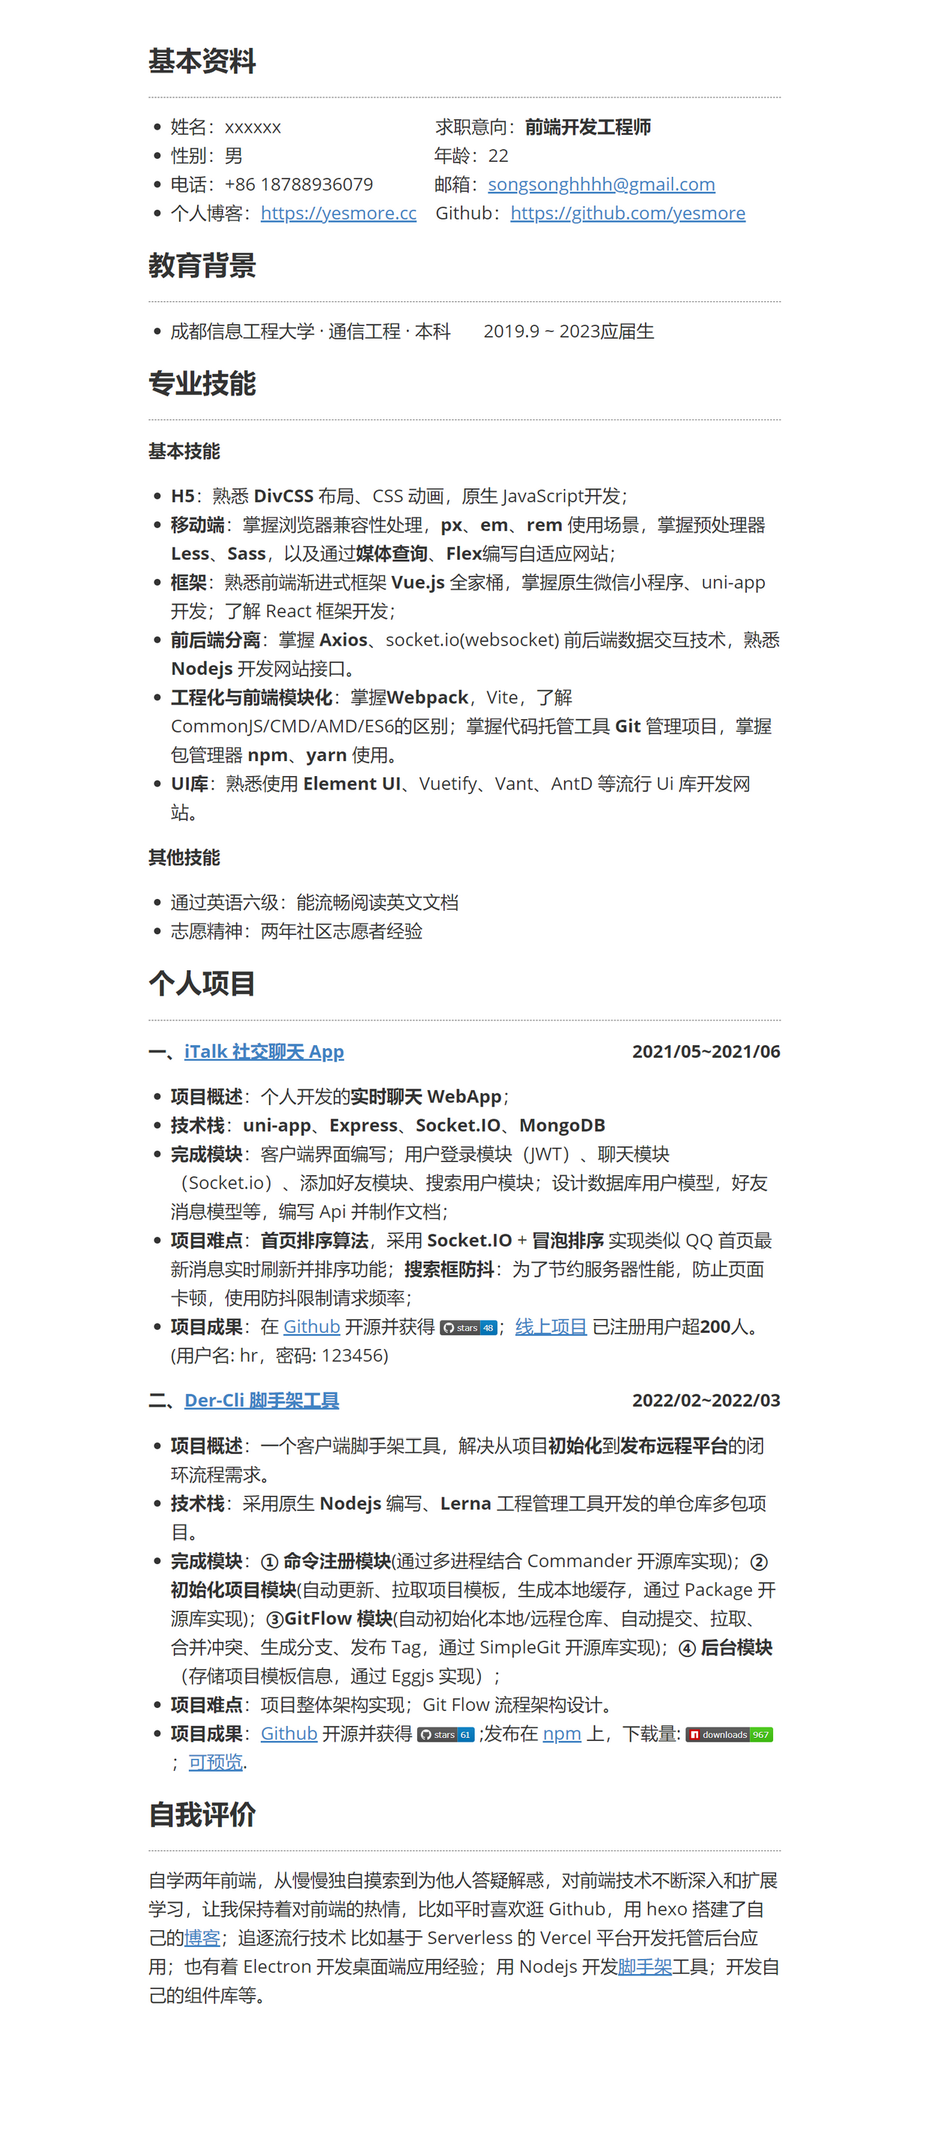
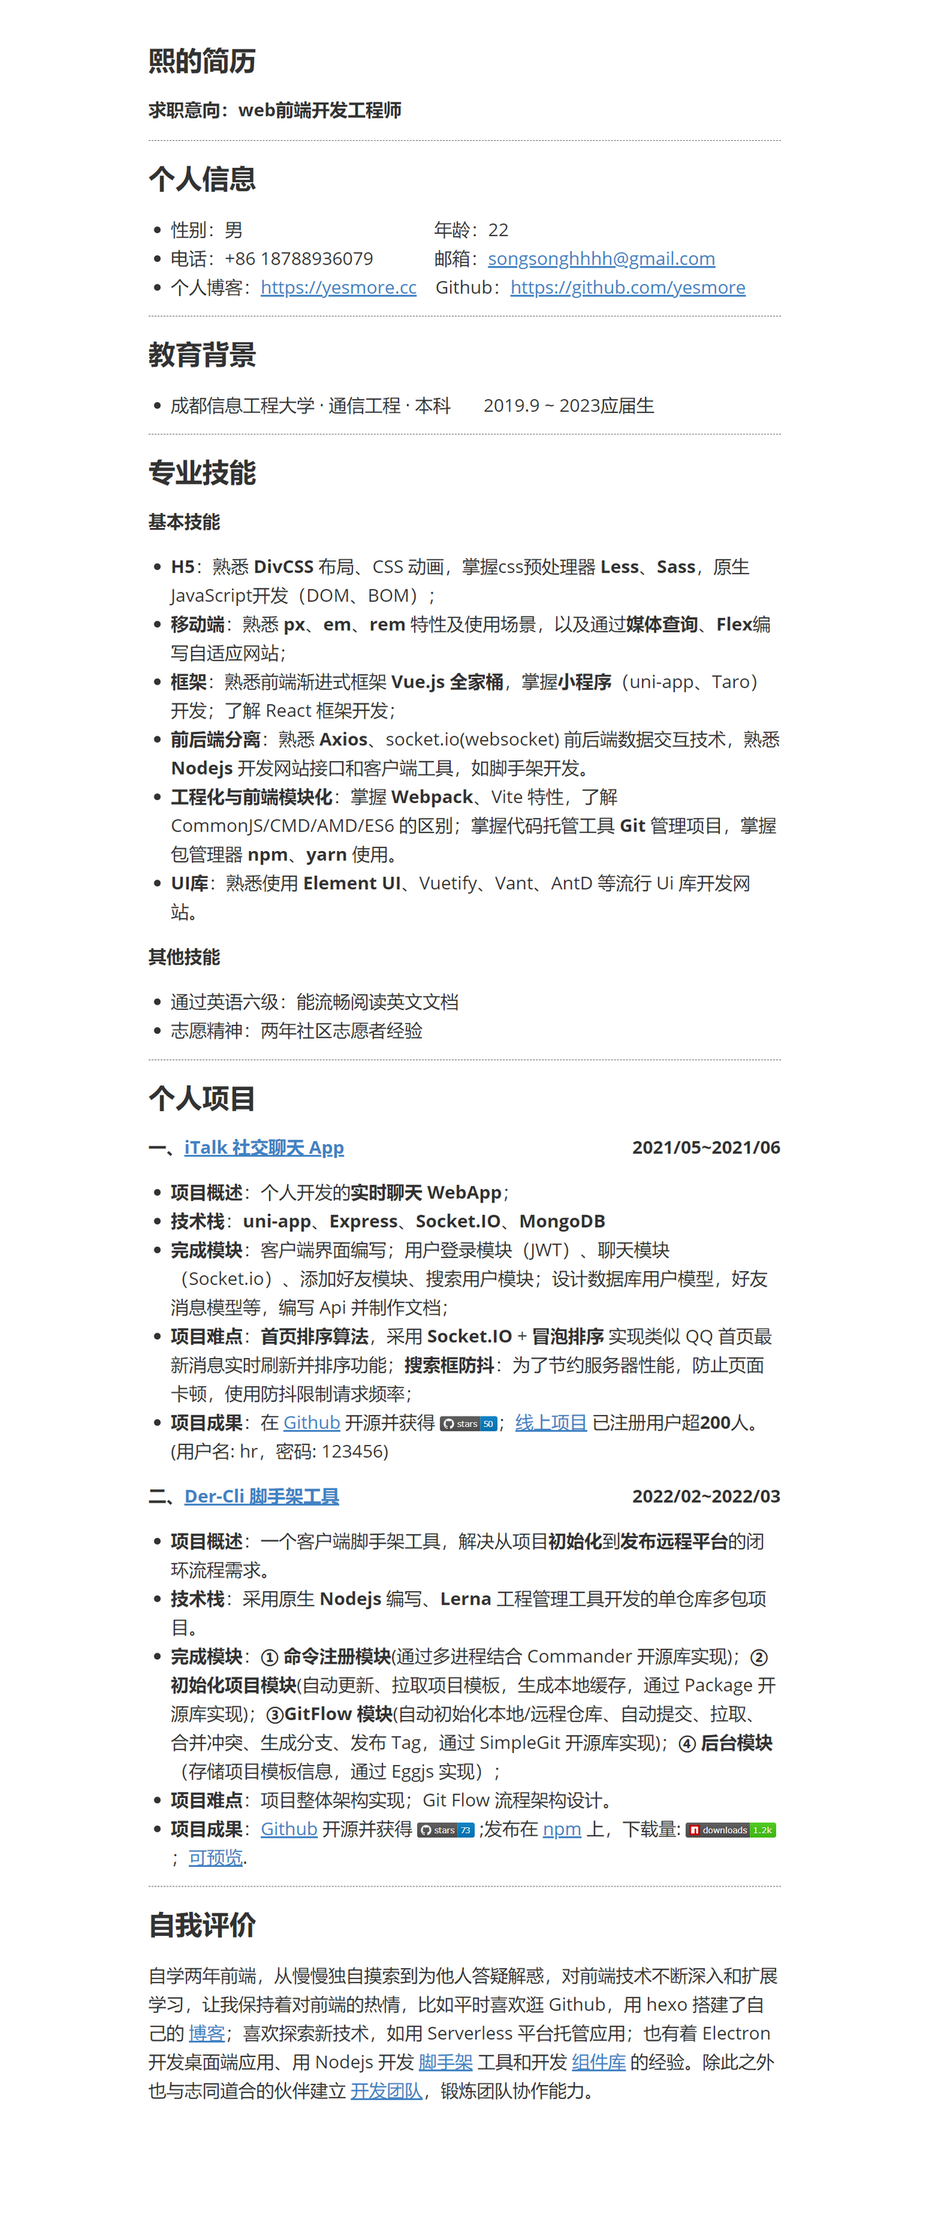
docs: new

Changed region(s): [[0.1532, 0.0, 0.8274, 0.9654]]

diff --git a/index.html b/index.html
@@ -593,6 +593,6 @@ header, .context-menu, .megamenu-content, footer{
 </style><title>index</title>
 </head>
 <body class='typora-export os-windows'><div class='typora-export-content'>
-<div id='write'  class=''><h3 id='基本资料'><span>基本资料</span></h3><div style="border-bottom: 1px dashed #666666"></div><ul><li><span>姓名：xxxxxx                                 求职意向：</span><strong><span>前端开发工程师</span></strong></li><li><span>性别：男                                         年龄：22</span></li><li><span>电话：+86 18788936079             邮箱：</span><a href='mailto:songsonghhhh@gmail.com' target='_blank' class='url'>songsonghhhh@gmail.com</a><span>  </span></li><li><span>个人博客：</span><a href='https://yesmore.cc' target='_blank' class='url'>https://yesmore.cc</a><span>    Github：</span><a href='https://github.com/yesmore' target='_blank' class='url'>https://github.com/yesmore</a></li></ul><h3 id='教育背景'><span>教育背景</span></h3><div style="border-bottom: 1px dashed #666666"></div><ul><li><span>成都信息工程大学 · 通信工程 · 本科       2019.9 ~ 2023应届生</span></li></ul><h3 id='专业技能'><span>专业技能</span></h3><div style="border-bottom: 1px dashed #666666"></div><h5 id='基本技能'><span>基本技能</span></h5><ul><li><strong><span>H5</span></strong><span>：熟悉 </span><strong><span>DivCSS</span></strong><span> 布局、CSS 动画，原生 JavaScript开发；</span></li><li><strong><span>移动端</span></strong><span>：掌握浏览器兼容性处理，</span><strong><span>px</span></strong><span>、</span><strong><span>em</span></strong><span>、</span><strong><span>rem</span></strong><span> 使用场景，掌握预处理器 </span><strong><span>Less</span></strong><span>、</span><strong><span>Sass</span></strong><span>，以及通过</span><strong><span>媒体查询</span></strong><span>、</span><strong><span>Flex</span></strong><span>编写自适应网站；</span></li><li><strong><span>框架</span></strong><span>：熟悉前端渐进式框架 </span><strong><span>Vue.js</span></strong><span> 全家桶，掌握原生微信小程序、uni-app 开发；了解 React 框架开发；</span></li><li><strong><span>前后端分离</span></strong><span>：掌握 </span><strong><span>Axios</span></strong><span>、socket.io(websocket) 前后端数据交互技术，熟悉 </span><strong><span>Nodejs</span></strong><span> 开发网站接口。</span></li><li><strong><span>工程化与前端模块化</span></strong><span>：掌握</span><strong><span>Webpack</span></strong><span>，Vite，了解CommonJS/CMD/AMD/ES6的区别；掌握代码托管工具 </span><strong><span>Git</span></strong><span> 管理项目，掌握包管理器 </span><strong><span>npm</span></strong><span>、</span><strong><span>yarn</span></strong><span> 使用。</span></li><li><strong><span>UI库</span></strong><span>：熟悉使用 </span><strong><span>Element UI</span></strong><span>、Vuetify、Vant、AntD 等流行 Ui 库开发网站。</span></li></ul><h5 id='其他技能'><span>其他技能</span></h5><ul><li><span>通过英语六级：能流畅阅读英文文档</span></li><li><span>志愿精神：两年社区志愿者经验</span></li></ul><h3 id='个人项目'><span>个人项目</span></h3><div style="border-bottom: 1px dashed #666666"></div><h5 id='一italk-社交聊天-app\n202105202106'><span>一、</span><a href='https://github.com/yesmore/italk-uniapp'><span>iTalk 社交聊天 App</span></a><span style='float:right'><span>2021/05~2021/06</span></span></h5><ul><li><strong><span>项目概述</span></strong><span>：个人开发的</span><strong><span>实时聊天 WebApp</span></strong><span>；</span></li><li><strong><span>技术栈</span></strong><span>：</span><strong><span>uni-app</span></strong><span>、</span><strong><span>Express</span></strong><span>、</span><strong><span>Socket.IO</span></strong><span>、</span><strong><span>MongoDB</span></strong></li><li><strong><span>完成模块</span></strong><span>：客户端界面编写；用户登录模块（JWT）、聊天模块（Socket.io）、添加好友模块、搜索用户模块；设计数据库用户模型，好友消息模型等，编写 Api 并制作文档；</span></li><li><strong><span>项目难点</span></strong><span>：</span><strong><span>首页排序算法</span></strong><span>，采用 </span><strong><span>Socket.IO</span></strong><span> + </span><strong><span>冒泡排序</span></strong><span> 实现类似 QQ 首页最新消息实时刷新并排序功能；</span><strong><span>搜索框防抖</span></strong><span>：为了节约服务器性能，防止页面卡顿，使用防抖限制请求频率；</span></li><li><strong><span>项目成果</span></strong><span>：在 </span><a href='https://github.com/yesmore/italk-uniapp'><span>Github</span></a><span> 开源并获得 </span><img src="https://img.shields.io/github/stars/yesmore/italk-uniapp.svg?logo=github" alt="star"/><span>；</span><a href='http://italk.aoau.top/'><span>线上项目</span></a><span> 已注册用户超</span><strong><span>200</span></strong><span>人。(用户名: hr，密码: 123456)</span></li></ul><h5 id='二der-cli-脚手架工具-\n202202202203'><span>二、</span><a href='https://der-cli.vercel.app/'><span>Der-Cli 脚手架工具</span></a><span> </span><span style='float:right'><span>2022/02~2022/03</span></span></h5><ul><li><strong><span>项目概述</span></strong><span>：一个客户端脚手架工具，解决从项目</span><strong><span>初始化</span></strong><span>到</span><strong><span>发布远程平台</span></strong><span>的闭环流程需求。</span></li><li><strong><span>技术栈</span></strong><span>：采用原生 </span><strong><span>Nodejs</span></strong><span> 编写、</span><strong><span>Lerna</span></strong><span> 工程管理工具开发的单仓库多包项目。</span></li><li><strong><span>完成模块</span></strong><span>：</span><strong><span>① 命令注册模块</span></strong><span>(通过多进程结合 Commander 开源库实现)；</span><strong><span>② 初始化项目模块</span></strong><span>(自动更新、拉取项目模板，生成本地缓存，通过 Package 开源库实现)；</span><strong><span>③GitFlow 模块</span></strong><span>(自动初始化本地/远程仓库、自动提交、拉取、合并冲突、生成分支、发布 Tag，通过 SimpleGit 开源库实现)；</span><strong><span>④ 后台模块</span></strong><span>（存储项目模板信息，通过 Eggjs 实现）；</span></li><li><strong><span>项目难点</span></strong><span>：项目整体架构实现；Git Flow 流程架构设计。</span></li><li><strong><span>项目成果</span></strong><span>：</span><a href='https://github.com/der-cli/der-cli'><span>Github</span></a><span> 开源并获得 </span><img src="https://img.shields.io/github/stars/der-cli/der-cli.svg?logo=github" alt="star"/><span> ;发布在 </span><a href='https://www.npmjs.com/package/@der-cli/core'><span>npm</span></a><span> 上，下载量: </span><img src="https://img.shields.io/npm/dt/@der-cli/core?logo=npm"><span>；</span><a href='https://der-cli.vercel.app/'><span>可预览</span></a><span>.</span></li></ul><h3 id='自我评价'><span>自我评价</span></h3><div style="border-bottom: 1px dashed #666666"></div><p><span>自学两年前端，从慢慢独自摸索到为他人答疑解惑，对前端技术不断深入和扩展学习，让我保持着对前端的热情，比如平时喜欢逛 Github，用 hexo 搭建了自己的</span><a href='https://yesmore.cc/'><span>博客</span></a><span>；追逐流行技术 比如基于 Serverless 的 Vercel 平台开发托管后台应用；也有着 Electron 开发桌面端应用经验；用 Nodejs 开发</span><a href='https://github.com/der-cli/der-cli'><span>脚手架</span></a><span>工具；开发自己的组件库等。</span></p><p>&nbsp;</p></div></div>
+<div id='write'  class=''><h3 id='熙的简历'><span>熙的简历</span></h3><h5 id='求职意向web前端开发工程师'><span> 求职意向：web前端开发工程师</span></h5><div style="border-bottom: 1px dashed #666666"></div><h3 id='个人信息'><span>个人信息</span></h3><ul><li><span>性别：男                                         年龄：22                                 </span></li><li><span>电话：+86 18788936079             邮箱：</span><a href='mailto:songsonghhhh@gmail.com' target='_blank' class='url'>songsonghhhh@gmail.com</a><span>  </span></li><li><span>个人博客：</span><a href='https://yesmore.cc' target='_blank' class='url'>https://yesmore.cc</a><span>    Github：</span><a href='https://github.com/yesmore' target='_blank' class='url'>https://github.com/yesmore</a></li></ul><div style="border-bottom: 1px dashed #666666"></div><h3 id='教育背景'><span>教育背景</span></h3><ul><li><span>成都信息工程大学 · 通信工程 · 本科       2019.9 ~ 2023应届生</span></li></ul><div style="border-bottom: 1px dashed #666666"></div><h3 id='专业技能'><span>专业技能</span></h3><h5 id='基本技能'><span>基本技能</span></h5><ul><li><strong><span>H5</span></strong><span>：熟悉 </span><strong><span>DivCSS</span></strong><span> 布局、CSS 动画，掌握css预处理器 </span><strong><span>Less</span></strong><span>、</span><strong><span>Sass</span></strong><span>，原生 JavaScript开发（DOM、BOM）；</span></li><li><strong><span>移动端</span></strong><span>：熟悉 </span><strong><span>px</span></strong><span>、</span><strong><span>em</span></strong><span>、</span><strong><span>rem</span></strong><span> 特性及使用场景，以及通过</span><strong><span>媒体查询</span></strong><span>、</span><strong><span>Flex</span></strong><span>编写自适应网站；</span></li><li><strong><span>框架</span></strong><span>：熟悉前端渐进式框架 </span><strong><span>Vue.js</span></strong><span> </span><strong><span>全家桶</span></strong><span>，掌握</span><strong><span>小程序</span></strong><span>（uni-app、Taro）开发；了解 React 框架开发；</span></li><li><strong><span>前后端分离</span></strong><span>：熟悉 </span><strong><span>Axios</span></strong><span>、socket.io(websocket) 前后端数据交互技术，熟悉 </span><strong><span>Nodejs</span></strong><span> 开发网站接口和客户端工具，如脚手架开发。</span></li><li><strong><span>工程化与前端模块化</span></strong><span>：掌握 </span><strong><span>Webpack</span></strong><span>、Vite 特性，了解 CommonJS/CMD/AMD/ES6 的区别；掌握代码托管工具 </span><strong><span>Git</span></strong><span> 管理项目，掌握包管理器 </span><strong><span>npm</span></strong><span>、</span><strong><span>yarn</span></strong><span> 使用。</span></li><li><strong><span>UI库</span></strong><span>：熟悉使用 </span><strong><span>Element UI</span></strong><span>、Vuetify、Vant、AntD 等流行 Ui 库开发网站。</span></li></ul><h5 id='其他技能'><span>其他技能</span></h5><ul><li><span>通过英语六级：能流畅阅读英文文档</span></li><li><span>志愿精神：两年社区志愿者经验</span></li></ul><div style="border-bottom: 1px dashed #666666"></div><h3 id='个人项目'><span>个人项目</span></h3><h5 id='一italk-社交聊天-app\n202105202106'><span>一、</span><a href='http://italk.aoau.top/'><span>iTalk 社交聊天 App</span></a><span style='float:right'><span>2021/05~2021/06</span></span></h5><ul><li><strong><span>项目概述</span></strong><span>：个人开发的</span><strong><span>实时聊天 WebApp</span></strong><span>；</span></li><li><strong><span>技术栈</span></strong><span>：</span><strong><span>uni-app</span></strong><span>、</span><strong><span>Express</span></strong><span>、</span><strong><span>Socket.IO</span></strong><span>、</span><strong><span>MongoDB</span></strong></li><li><strong><span>完成模块</span></strong><span>：客户端界面编写；用户登录模块（JWT）、聊天模块（Socket.io）、添加好友模块、搜索用户模块；设计数据库用户模型，好友消息模型等，编写 Api 并制作文档；</span></li><li><strong><span>项目难点</span></strong><span>：</span><strong><span>首页排序算法</span></strong><span>，采用 </span><strong><span>Socket.IO</span></strong><span> + </span><strong><span>冒泡排序</span></strong><span> 实现类似 QQ 首页最新消息实时刷新并排序功能；</span><strong><span>搜索框防抖</span></strong><span>：为了节约服务器性能，防止页面卡顿，使用防抖限制请求频率；</span></li><li><strong><span>项目成果</span></strong><span>：在 </span><a href='https://github.com/yesmore/italk-uniapp'><span>Github</span></a><span> 开源并获得 </span><img src="https://img.shields.io/github/stars/yesmore/italk-uniapp.svg?logo=github" alt="star"/><span>；</span><a href='http://italk.aoau.top/'><span>线上项目</span></a><span> 已注册用户超</span><strong><span>200</span></strong><span>人。(用户名: hr，密码: 123456)</span></li></ul><h5 id='二der-cli-脚手架工具-\n202202202203'><span>二、</span><a href='https://der-cli.vercel.app/'><span>Der-Cli 脚手架工具</span></a><span> </span><span style='float:right'><span>2022/02~2022/03</span></span></h5><ul><li><strong><span>项目概述</span></strong><span>：一个客户端脚手架工具，解决从项目</span><strong><span>初始化</span></strong><span>到</span><strong><span>发布远程平台</span></strong><span>的闭环流程需求。</span></li><li><strong><span>技术栈</span></strong><span>：采用原生 </span><strong><span>Nodejs</span></strong><span> 编写、</span><strong><span>Lerna</span></strong><span> 工程管理工具开发的单仓库多包项目。</span></li><li><strong><span>完成模块</span></strong><span>：</span><strong><span>① 命令注册模块</span></strong><span>(通过多进程结合 Commander 开源库实现)；</span><strong><span>② 初始化项目模块</span></strong><span>(自动更新、拉取项目模板，生成本地缓存，通过 Package 开源库实现)；</span><strong><span>③GitFlow 模块</span></strong><span>(自动初始化本地/远程仓库、自动提交、拉取、合并冲突、生成分支、发布 Tag，通过 SimpleGit 开源库实现)；</span><strong><span>④ 后台模块</span></strong><span>（存储项目模板信息，通过 Eggjs 实现）；</span></li><li><strong><span>项目难点</span></strong><span>：项目整体架构实现；Git Flow 流程架构设计。</span></li><li><strong><span>项目成果</span></strong><span>：</span><a href='https://github.com/der-cli/der-cli'><span>Github</span></a><span> 开源并获得 </span><img src="https://img.shields.io/github/stars/der-cli/der-cli.svg?logo=github" alt="star"/><span> ;发布在 </span><a href='https://www.npmjs.com/package/@der-cli/core'><span>npm</span></a><span> 上，下载量: </span><img src="https://img.shields.io/npm/dt/@der-cli/core?logo=npm"><span>；</span><a href='https://der-cli.vercel.app/'><span>可预览</span></a><span>.</span></li></ul><div style="border-bottom: 1px dashed #666666"></div><h3 id='自我评价'><span>自我评价</span></h3><p><span>自学两年前端，从慢慢独自摸索到为他人答疑解惑，对前端技术不断深入和扩展学习，让我保持着对前端的热情，比如平时喜欢逛 Github，用 hexo 搭建了自己的 </span><a href='https://yesmore.cc/'><span>博客</span></a><span>；喜欢探索新技术，如用 Serverless 平台托管应用；也有着 Electron 开发桌面端应用、用 Nodejs 开发 </span><a href='https://der-cli.vercel.app/'><span>脚手架</span></a><span> 工具和开发 </span><a href='https://yesmore.cc/Different-UI/'><span>组件库</span></a><span> 的经验。除此之外也与志同道合的伙伴建立 </span><a href='https://github.com/Futaba-KND'><span>开发团队</span></a><span>，锻炼团队协作能力。</span></p><p>&nbsp;</p></div></div>
 </body>
 </html>

diff --git a/index.md b/index.md
@@ -1,29 +1,33 @@
-### 基本资料
+### 熙的简历
+
+#####  求职意向：web前端开发工程师
+
 
 <div style='border-bottom: 1px dashed #666666'></div>
 
-- 姓名：xxxxxx                                 求职意向：**前端开发工程师**
-- 性别：男                                         年龄：22
+### 个人信息
+
+- 性别：男                                         年龄：22                                 
 - 电话：+86 18788936079             邮箱：songsonghhhh@gmail.com  
 - 个人博客：https://yesmore.cc    Github：https://github.com/yesmore
 
-### 教育背景
-
 <div style='border-bottom: 1px dashed #666666'></div>
+
+### 教育背景
 
 - 成都信息工程大学 · 通信工程 · 本科       2019.9 ~ 2023应届生
 
-### 专业技能
-
 <div style='border-bottom: 1px dashed #666666'></div>
+
+### 专业技能
 
 ##### 基本技能
 
-- **H5**：熟悉 **DivCSS** 布局、CSS 动画，原生 JavaScript开发；
-- **移动端**：掌握浏览器兼容性处理，**px**、**em**、**rem** 使用场景，掌握预处理器 **Less**、**Sass**，以及通过**媒体查询**、**Flex**编写自适应网站；
-- **框架**：熟悉前端渐进式框架 **Vue.js** 全家桶，掌握原生微信小程序、uni-app 开发；了解 React 框架开发；
-- **前后端分离**：掌握 **Axios**、socket.io(websocket) 前后端数据交互技术，熟悉 **Nodejs** 开发网站接口。
-- **工程化与前端模块化**：掌握**Webpack**，Vite，了解CommonJS/CMD/AMD/ES6的区别；掌握代码托管工具 **Git** 管理项目，掌握包管理器 **npm**、**yarn** 使用。
+- **H5**：熟悉 **DivCSS** 布局、CSS 动画，掌握css预处理器 **Less**、**Sass**，原生 JavaScript开发（DOM、BOM）；
+- **移动端**：熟悉 **px**、**em**、**rem** 特性及使用场景，以及通过**媒体查询**、**Flex**编写自适应网站；
+- **框架**：熟悉前端渐进式框架 **Vue.js** **全家桶**，掌握**小程序**（uni-app、Taro）开发；了解 React 框架开发；
+- **前后端分离**：熟悉 **Axios**、socket.io(websocket) 前后端数据交互技术，熟悉 **Nodejs** 开发网站接口和客户端工具，如脚手架开发。
+- **工程化与前端模块化**：掌握 **Webpack**、Vite 特性，了解 CommonJS/CMD/AMD/ES6 的区别；掌握代码托管工具 **Git** 管理项目，掌握包管理器 **npm**、**yarn** 使用。
 - **UI库**：熟悉使用 **Element UI**、Vuetify、Vant、AntD 等流行 Ui 库开发网站。
 
 ##### 其他技能
@@ -31,11 +35,11 @@
 - 通过英语六级：能流畅阅读英文文档
 - 志愿精神：两年社区志愿者经验
 
-### 个人项目
-
 <div style='border-bottom: 1px dashed #666666'></div>
 
-##### 一、[iTalk 社交聊天 App](https://github.com/yesmore/italk-uniapp)<span style='float:right'>2021/05~2021/06</span>
+### 个人项目
+
+##### 一、[iTalk 社交聊天 App](http://italk.aoau.top/)<span style='float:right'>2021/05~2021/06</span>
 
 - **项目概述**：个人开发的**实时聊天 WebApp**；
 - **技术栈**：**uni-app**、**Express**、**Socket.IO**、**MongoDB**
@@ -51,9 +55,9 @@
 - **项目难点**：项目整体架构实现；Git Flow 流程架构设计。
 - **项目成果**：[Github](https://github.com/der-cli/der-cli) 开源并获得 <img src="https://img.shields.io/github/stars/der-cli/der-cli.svg?logo=github" alt="star"/> ;发布在 [npm](https://www.npmjs.com/package/@der-cli/core) 上，下载量: <img src="https://img.shields.io/npm/dt/@der-cli/core?logo=npm">；[可预览](https://der-cli.vercel.app/).
 
-### 自我评价
-
 <div style='border-bottom: 1px dashed #666666'></div>
 
-自学两年前端，从慢慢独自摸索到为他人答疑解惑，对前端技术不断深入和扩展学习，让我保持着对前端的热情，比如平时喜欢逛 Github，用 hexo 搭建了自己的[博客](https://yesmore.cc/)；追逐流行技术 比如基于 Serverless 的 Vercel 平台开发托管后台应用；也有着 Electron 开发桌面端应用经验；用 Nodejs 开发[脚手架](https://github.com/der-cli/der-cli)工具；开发自己的组件库等。
+### 自我评价
+
+自学两年前端，从慢慢独自摸索到为他人答疑解惑，对前端技术不断深入和扩展学习，让我保持着对前端的热情，比如平时喜欢逛 Github，用 hexo 搭建了自己的 [博客](https://yesmore.cc/)；喜欢探索新技术，如用 Serverless 平台托管应用；也有着 Electron 开发桌面端应用、用 Nodejs 开发 [脚手架](https://der-cli.vercel.app/) 工具和开发 [组件库](https://yesmore.cc/Different-UI/) 的经验。除此之外也与志同道合的伙伴建立 [开发团队](https://github.com/Futaba-KND)，锻炼团队协作能力。
 
